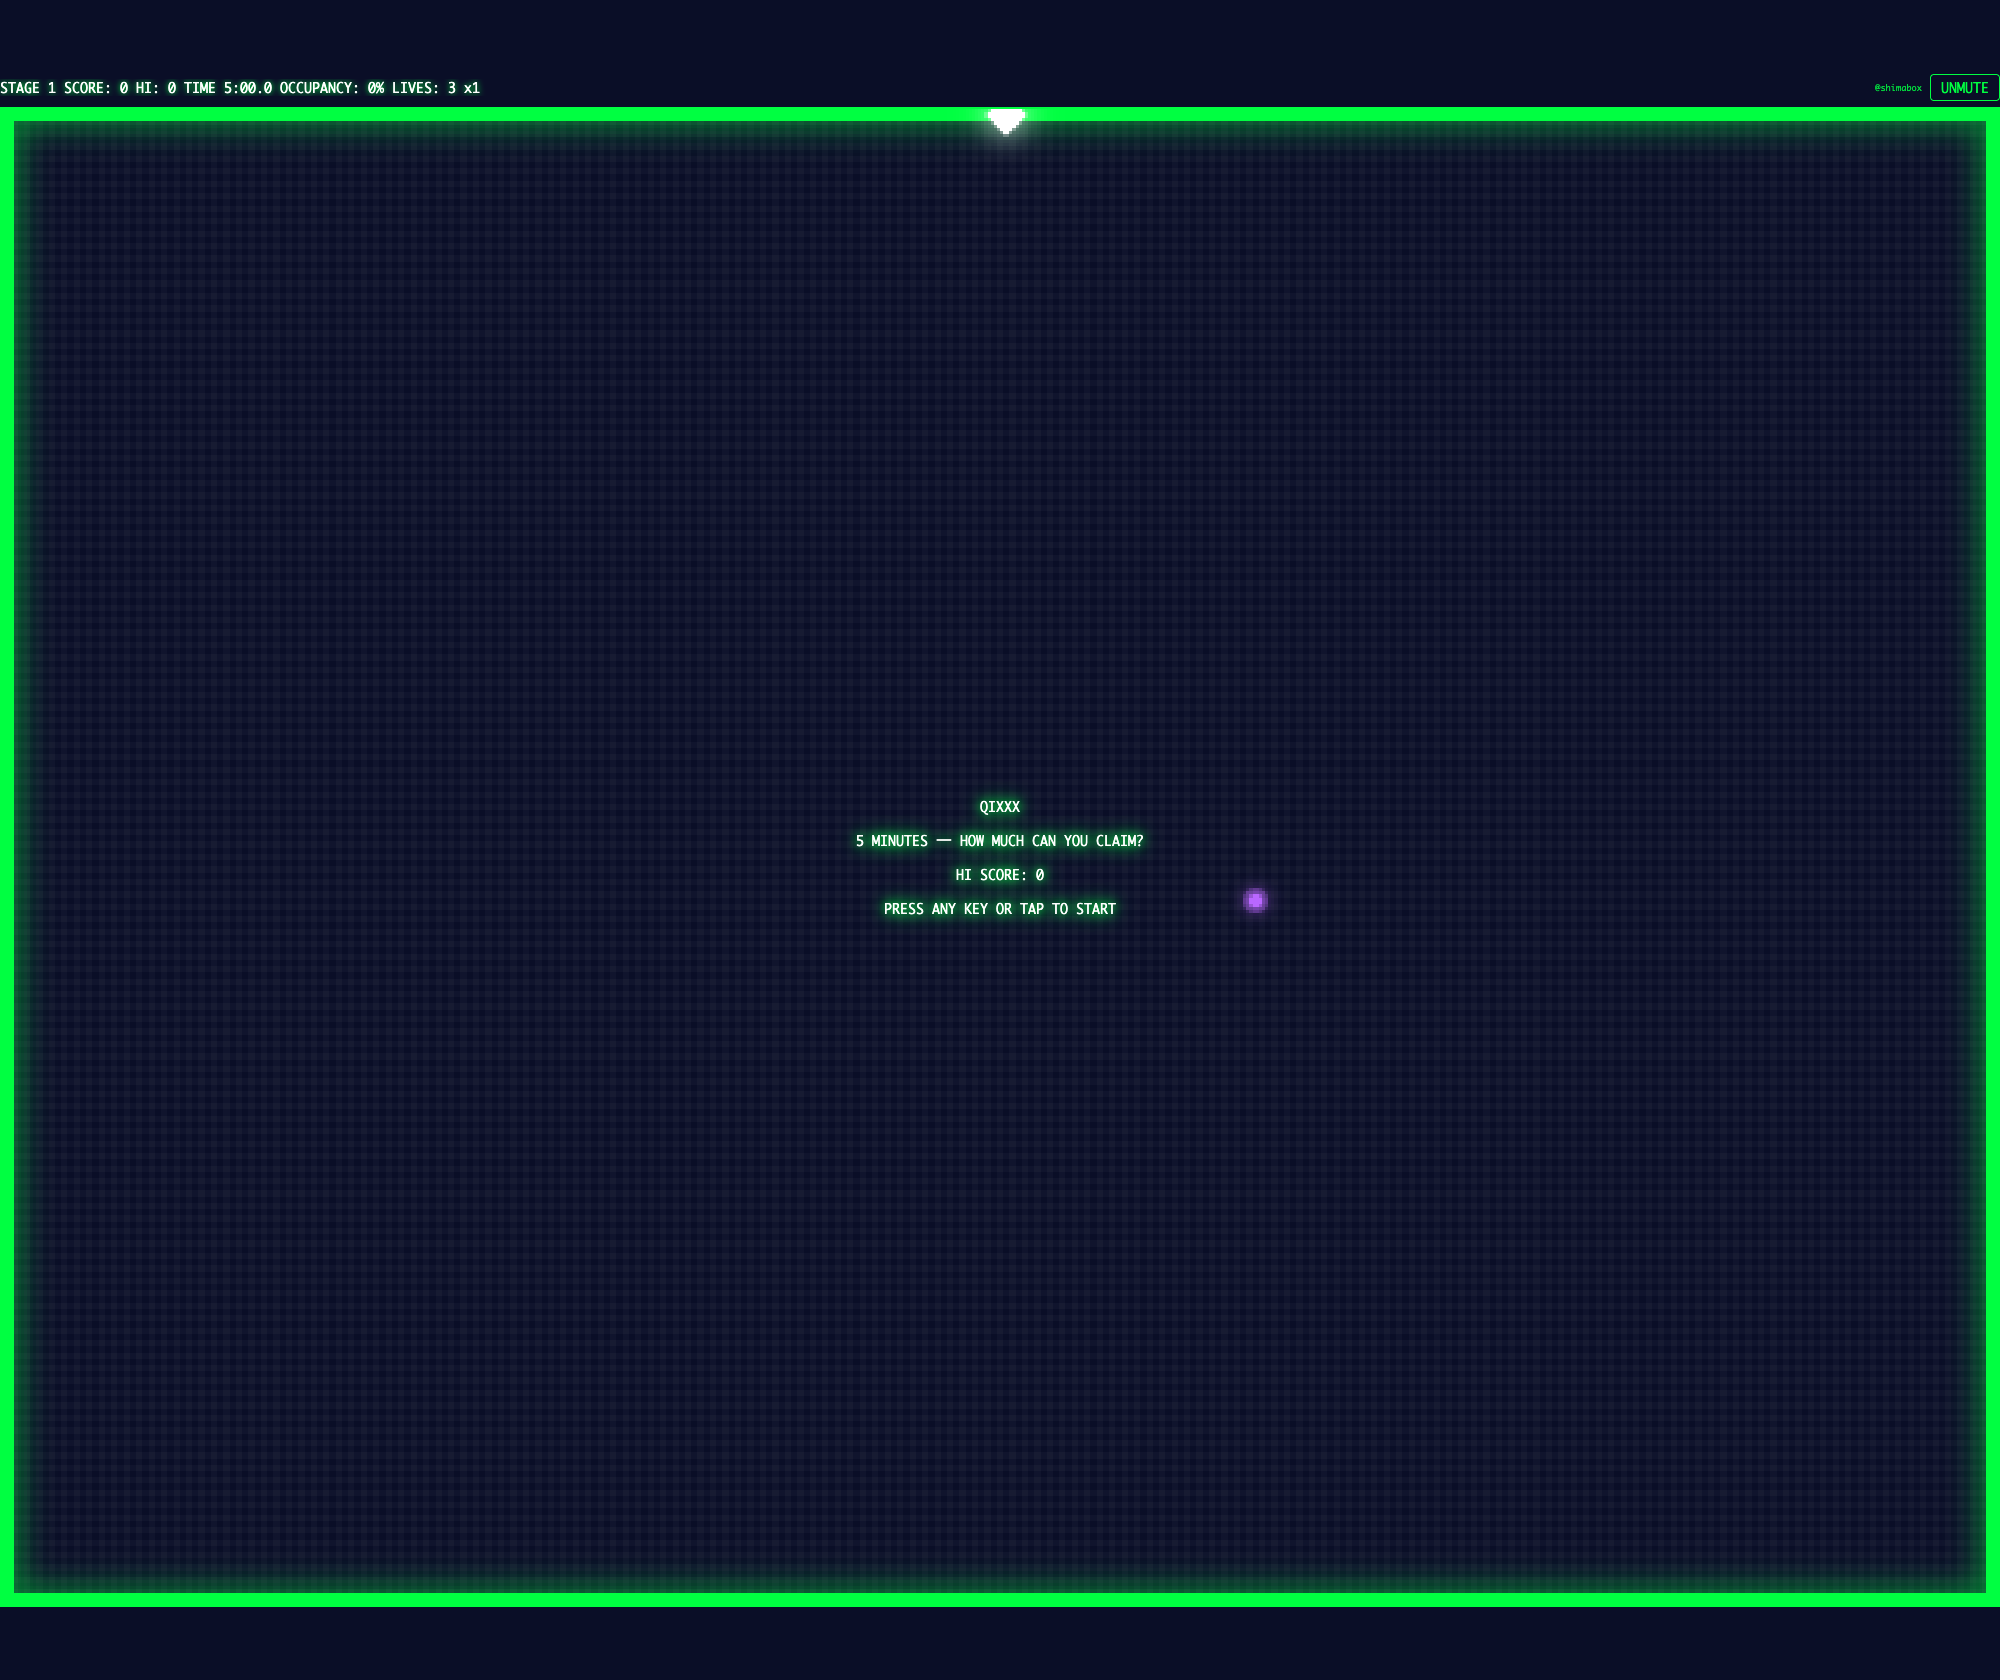
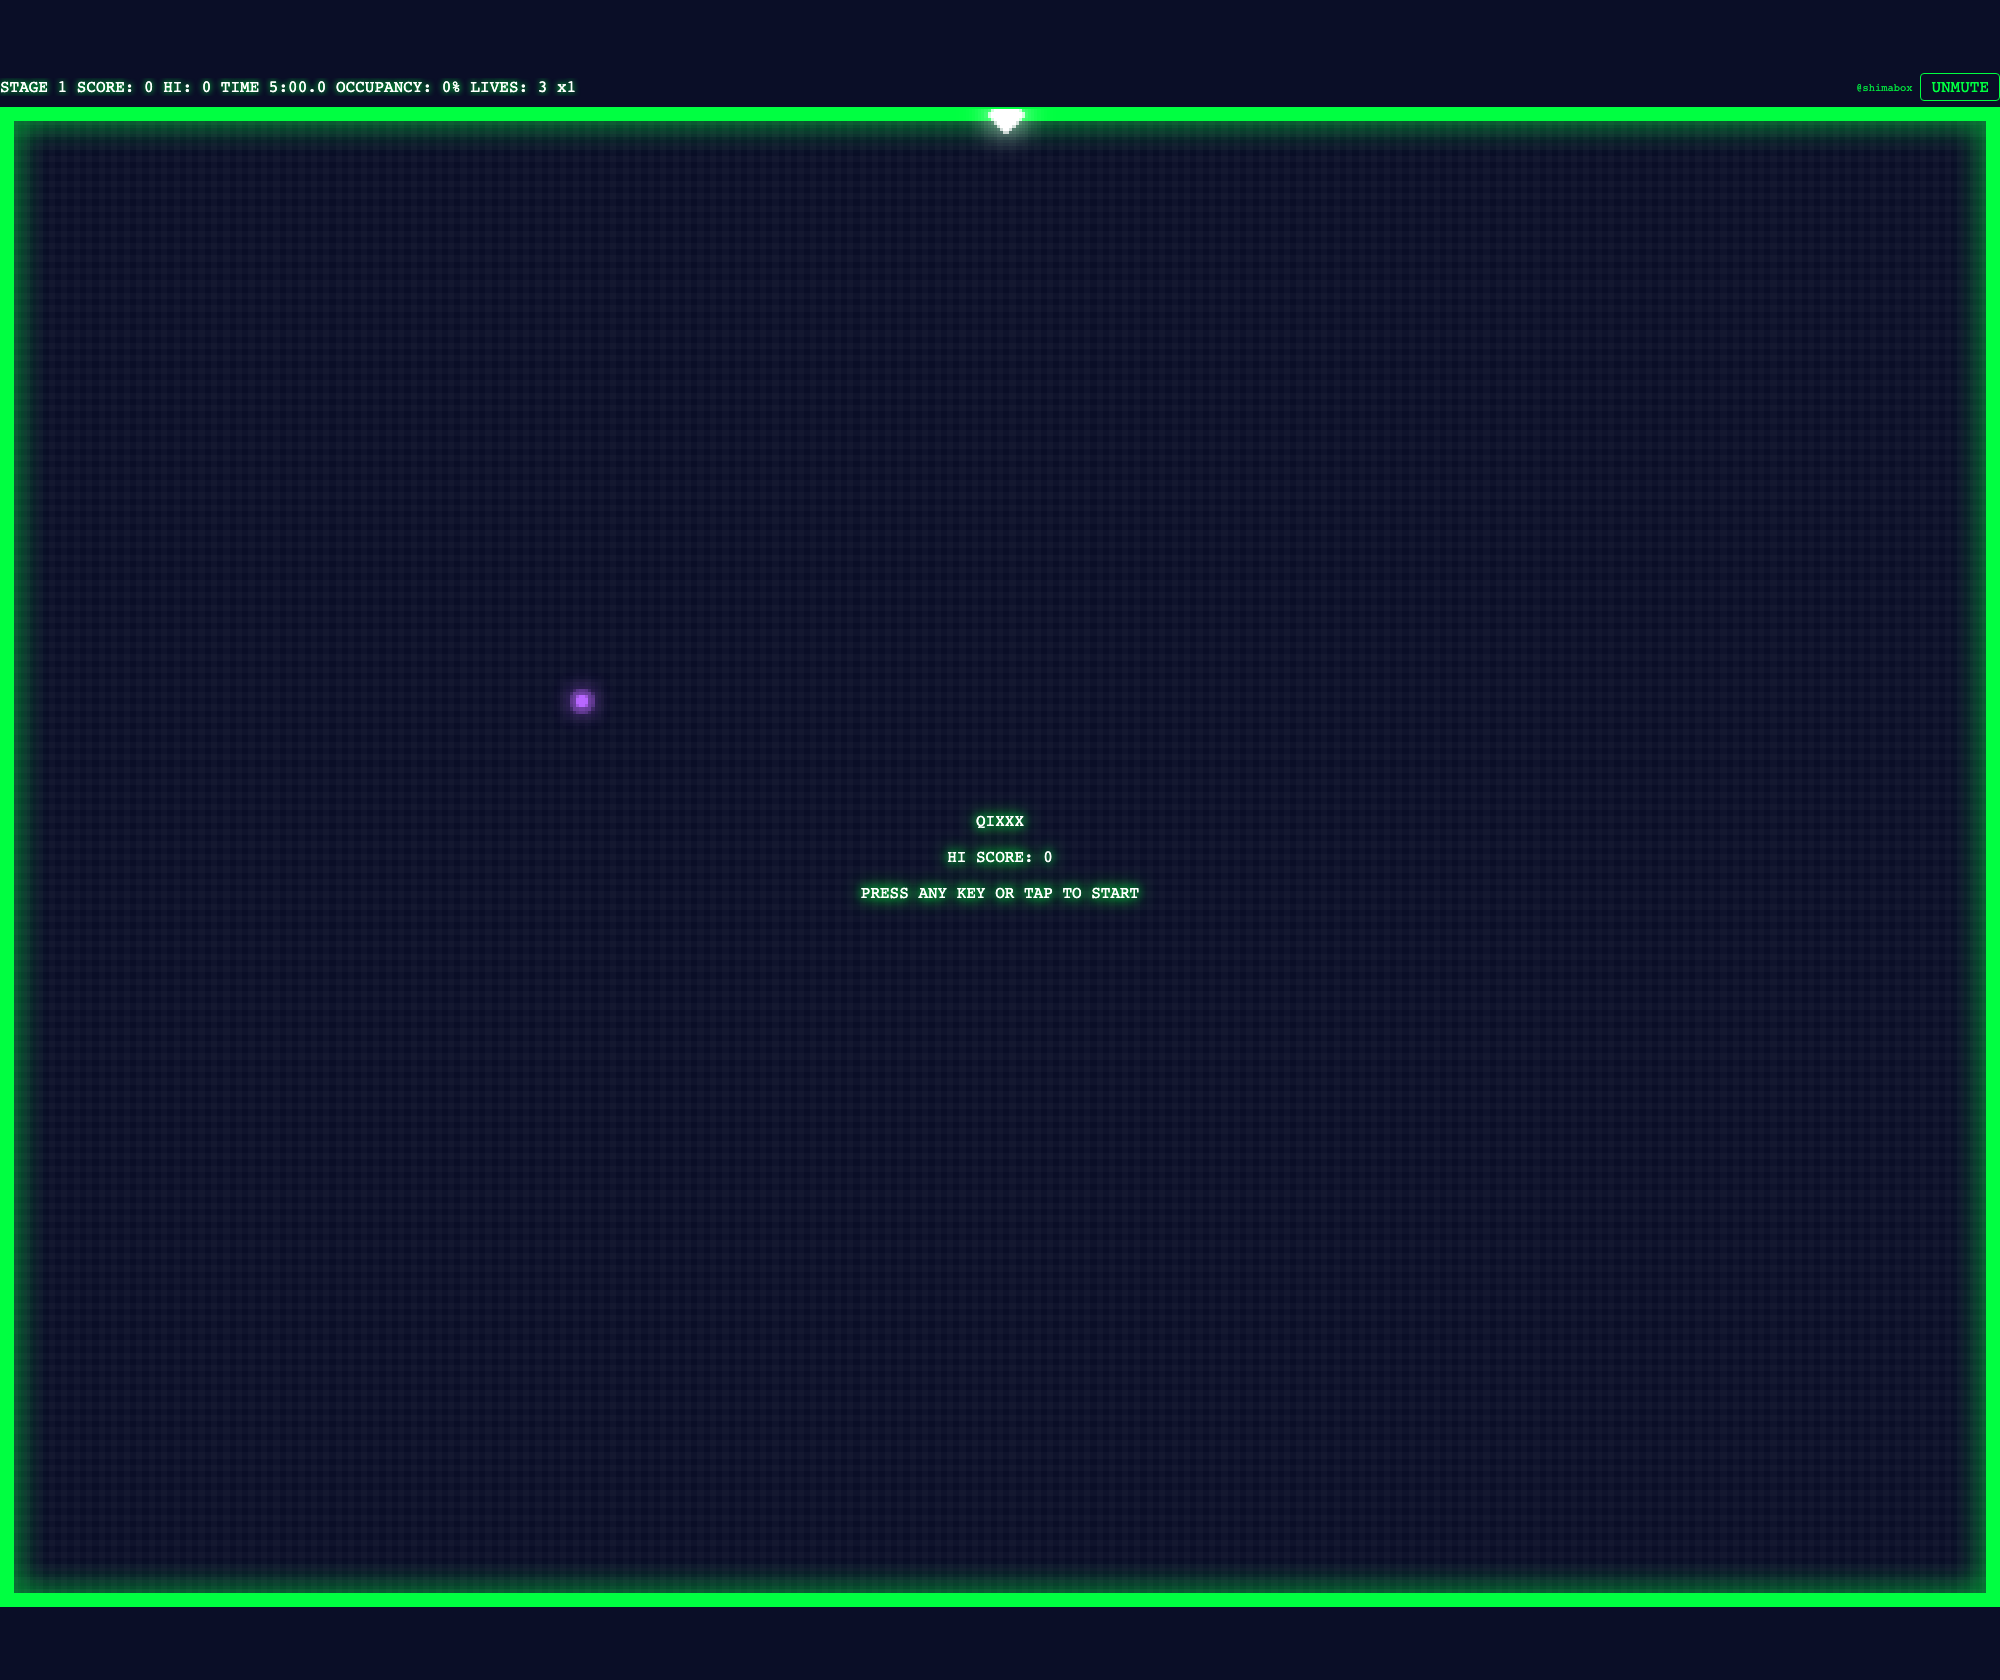
feat: remove the "5 MINUTES" title tagline, back to a minimal Title screen
The 5-minute time limit is already immediately obvious from the HUD's own
TIME countdown during play, so a pre-game explainer line is redundant
(user decision). Reverts screenText()'s 'title' case to its pre-time-
-limit-mode text exactly (QIXXX / HI SCORE / PRESS ANY KEY OR TAP TO
START).

Re-shot docs/images/title.png and docs/images/readme-title.png (the
tagline was visible in both) using the same scripted dev-server +
Playwright approach as the gameover.png/stageclear2.png retake: no
?seed=, no ?debug, matching each image's original viewport/crop exactly.

No test changes needed — no existing or branch-added test references the
removed copy; smoke.spec.ts's `toContainText('QIXXX')` still holds.

diff --git a/src/main.ts b/src/main.ts
@@ -838,14 +838,7 @@ function renderFrame(): void {
 function screenText(status: ReturnType<GameSession['getStatus']>): string {
   switch (status) {
     case 'title':
-      // The "5 MINUTES" line (docs/plans/2026-08-13-time-limit-mode) tells a
-      // first-time player up front that every run is a fixed time budget,
-      // not a survive-until-you-die score attack — the whole point of the
-      // "5分で1本" reframing.
-      return (
-        `QIXXX\n\n5 MINUTES — HOW MUCH CAN YOU CLAIM?\n\n` +
-        `HI SCORE: ${session.getHighScore()}\n\nPRESS ANY KEY OR TAP TO START`
-      );
+      return `QIXXX\n\nHI SCORE: ${session.getHighScore()}\n\nPRESS ANY KEY OR TAP TO START`;
     case 'stageclear': {
       const splitNote = session.getGame().getLastClearWasSplit() ? '\n(SPLIT CLEAR!)' : '';
       return `STAGE ${session.getStage()} CLEAR!${splitNote}\n\nPRESS ANY KEY OR TAP FOR NEXT STAGE`;
